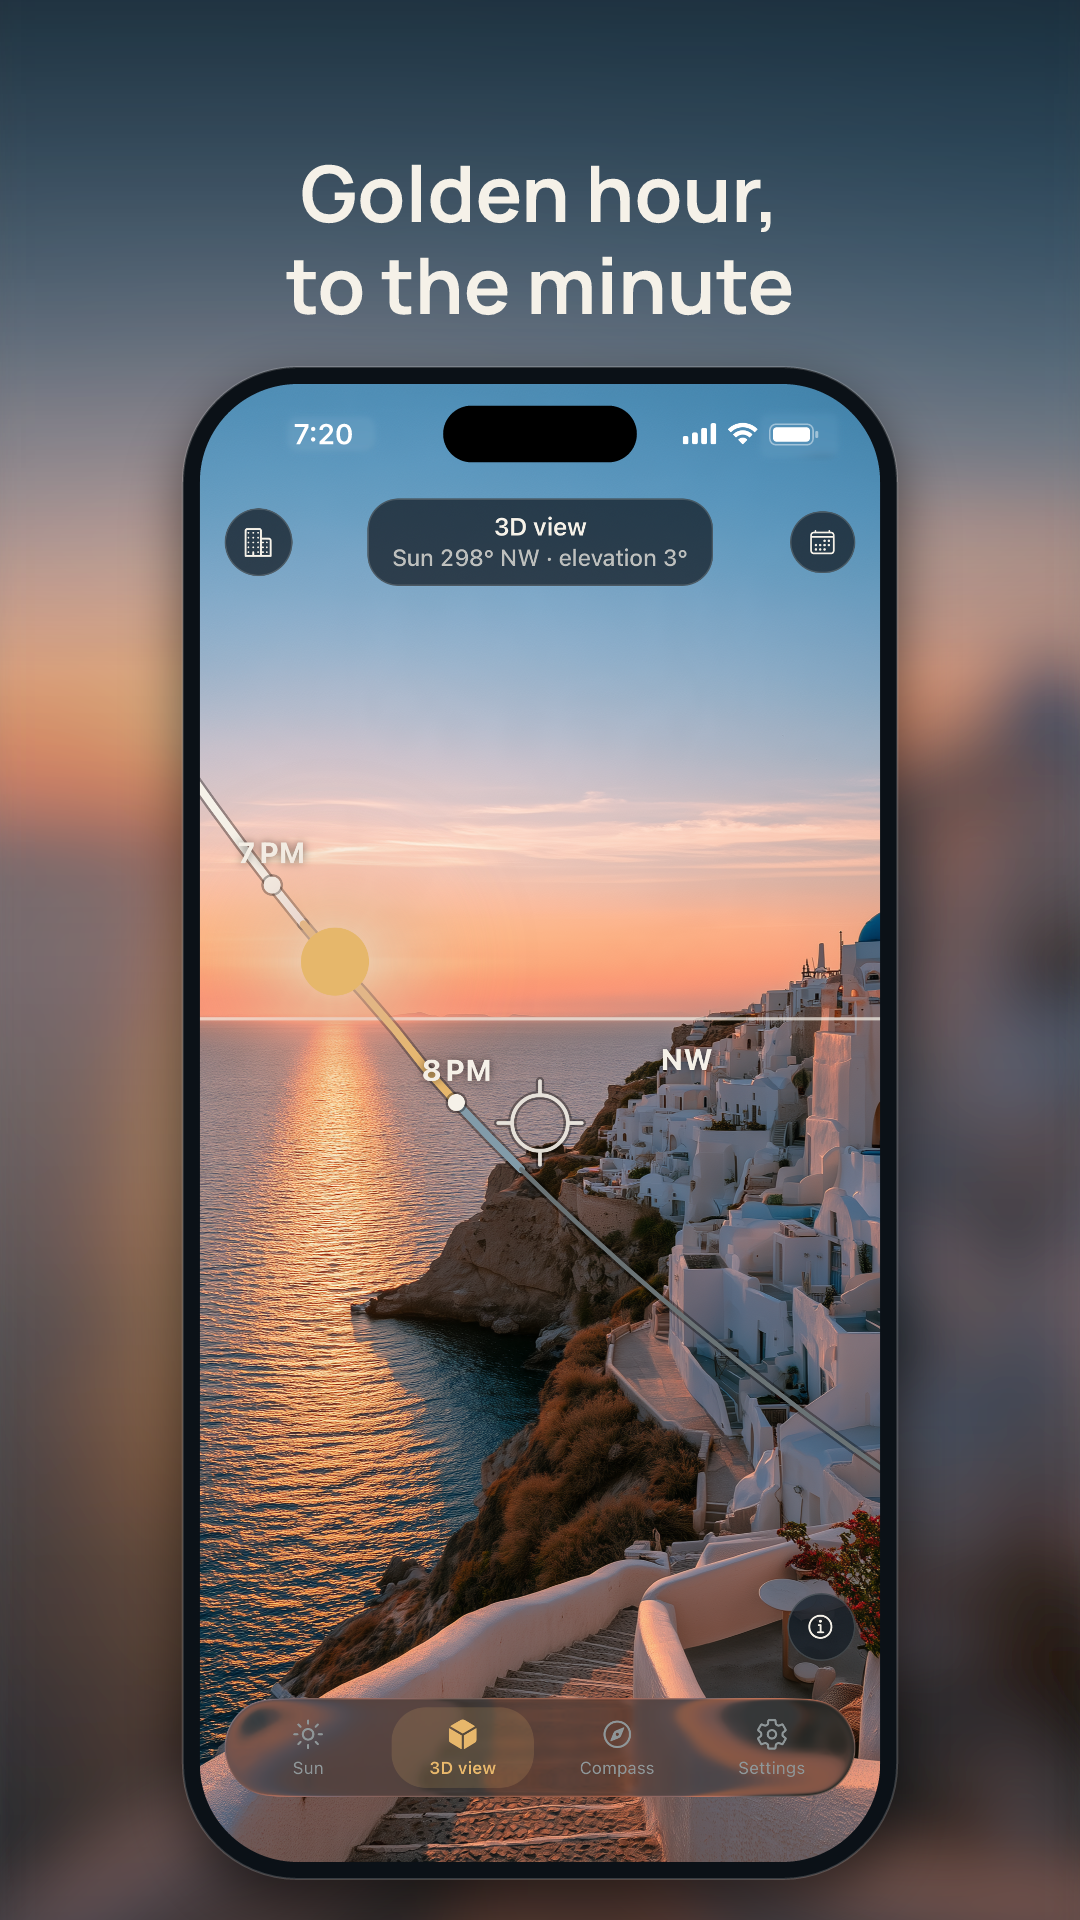
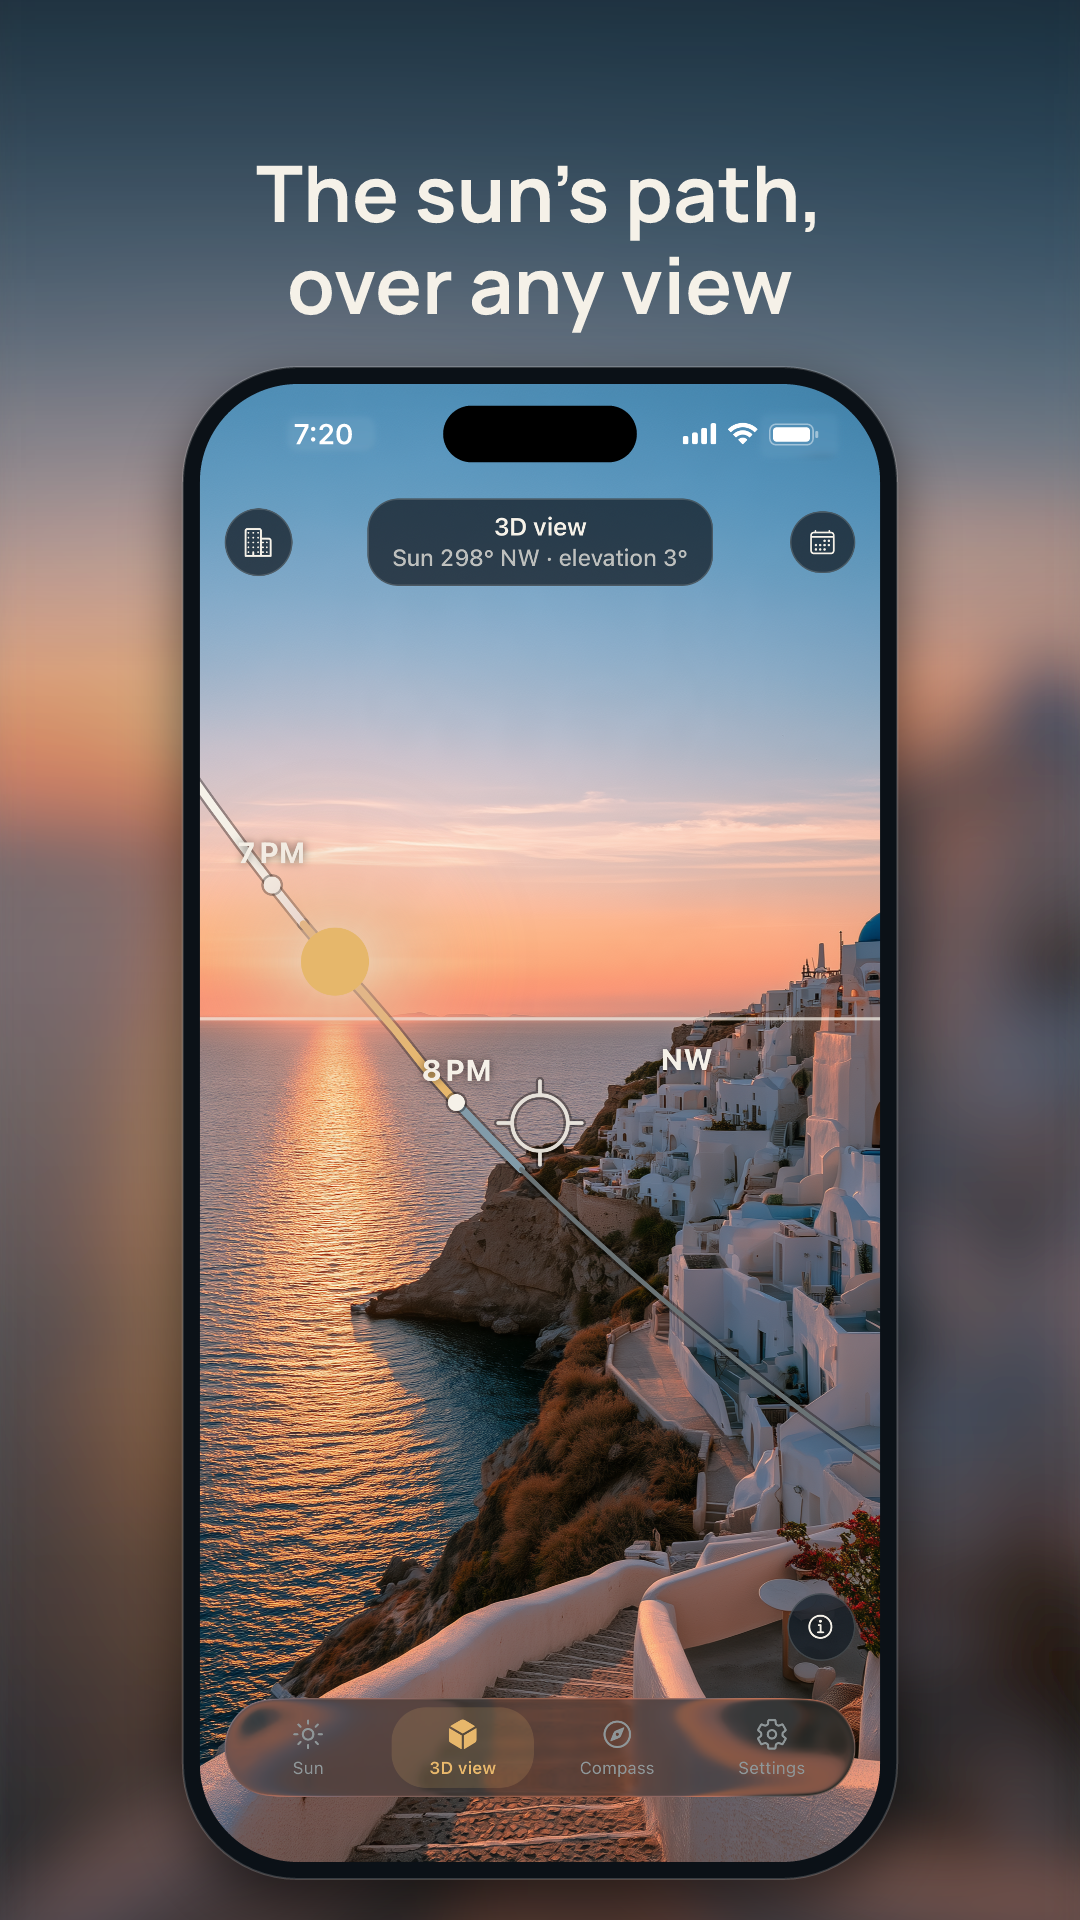
Store screens: golden hour title moves to the dial, new title for the 3D view

Changed region(s): [[0.2444, 0.0625, 0.7639, 0.1875]]

diff --git a/scripts/composeStoreScreens.js b/scripts/composeStoreScreens.js
@@ -56,13 +56,16 @@ const SCENES = [
     id: "village",
     background: "village.png",
     clock: "19:20",
-    titles: { fr: "La golden hour,\nà la minute près", en: "Golden hour,\nto the minute" },
+    titles: {
+      fr: "La course du soleil,\nsur tout ce que tu vois",
+      en: "The sun's path,\nover any view",
+    },
   },
   {
     id: "sun",
     background: "village.png",
     clock: "19:20",
-    titles: { fr: "Toute la journée\ndu soleil", en: "The sun's whole day\nat a glance" },
+    titles: { fr: "La golden hour,\nà la minute près", en: "Golden hour,\nto the minute" },
   },
   {
     id: "compass",
